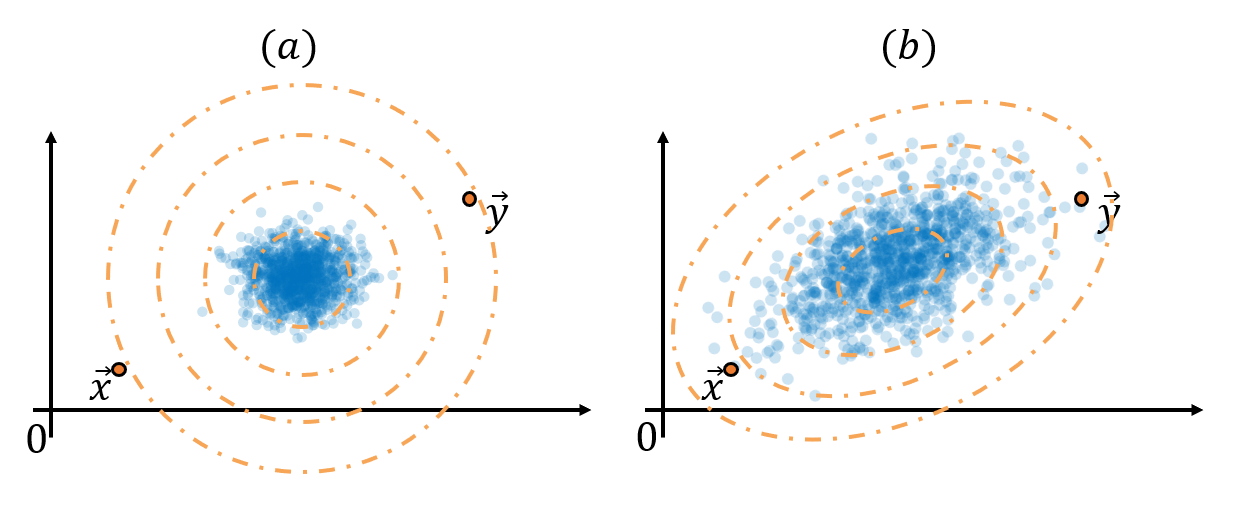
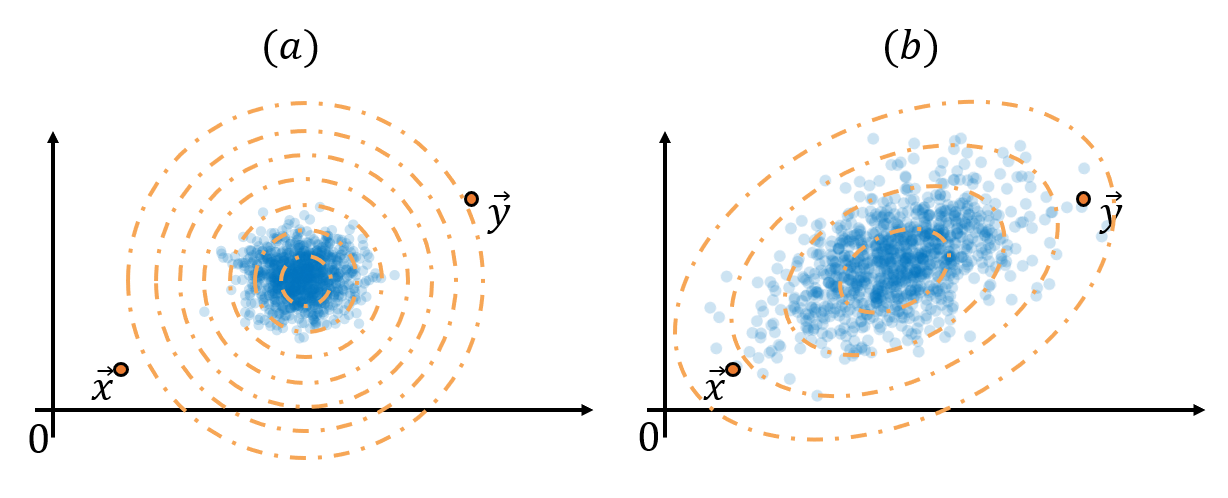
-

diff --git a/_posts/2022-09-28-Mahalanobis_distance.md b/_posts/2022-09-28-Mahalanobis_distance.md
@@ -53,7 +53,7 @@ $$d_E = \sqrt{(\vec x-\vec y)^T(\vec x-\vec y)}$$
   그림 3. 다른 데이터들의 맥락을 고려한 두 점 사이의 거리는 다르게 계산되어야 할 수도 있다.
 </p>
 
-위 그림을 보면 (a)는 파란색 데이터들이 보여주고 있는 기존의 분포에서 상당히 벗어나있는 점들이라는 것을 알 수 있다. 반면에 (b)는 파란색 데이터들이 보여주고 있는 기존의 분포에서 상대적으로 덜 벗어난 곳에 위치해있다. 말하자면 산의 모양을 고려한 등고선을 그려서 거리를 책정한다고나 할까. 분명 종이 위의 $\vec x$와 $\vec y$의 거리는 같지만 작은 동산을 가로지르는 경우와 큰 산을 가로지르는 거리는 아마 다를것이다.
+위 그림을 보면 (a)는 파란색 데이터들이 보여주고 있는 기존의 분포에서 상당히 벗어나있는 점들이라는 것을 알 수 있다. 반면에 (b)는 파란색 데이터들이 보여주고 있는 기존의 분포에서 상대적으로 덜 벗어난 곳에 위치해있다. 말하자면 산의 모양을 고려한 등고선을 그려서 거리를 책정한다고나 할까. 분명 종이 위의 $\vec x$와 $\vec y$의 거리는 같지만 작은 동산을 가로지르는 경우와 큰 산을 가로지르는 거리는 아마 다를것이다. 그림 4의 (a)에서 보면 $\vec x$와 $\vec y$ 사이를 통과하는 등고선의 개수가 그림 4의 (b) 보다 더 많다.
 
 <p align = "center">
   <img width = "600" src = "https://raw.githubusercontent.com/angeloyeo/angeloyeo.github.io/master/pics/2022-09-28-Mahalanobis_distance/pic4.png">
@@ -67,11 +67,23 @@ $$d_M = \sqrt{(\vec x-\vec y)^T\Sigma^{-1}(\vec x-\vec y)}$$
 
 $d_E$와 비교했을 때 $\Sigma$의 역행렬 $\Sigma^{-1}$이 가운데 곱해져 있다는 점에 주목하자. 
 
-# 공분산 행렬의 의미
+# 행렬의 기하학적 의미
 
-※ 이 글 꼭지는 [주성분분석(PCA) 편](https://angeloyeo.github.io/2019/07/27/PCA.html)에서 가져와 해당 포스팅에 맞게 수정한 것입니다.
+## 행렬은 선형 변환이다.
 
-공분산 행렬은 일종의 행렬로써, 데이터의 구조를 설명해주며, 특히 특징 쌍(feature pairs)들의 변동이 얼마나 닮았는가(다른 말로는 얼마만큼이나 함께 변하는가)를 행렬에 나타내고 있다.
+## 주어진 데이터를 보는 새로운 관점
+
+$$y=Ax$$
+
+$$y^Ty=x^TA^TAx$$
+
+반대로
+
+$$x=A^{-1}y$$
+
+$$x^Tx=y^T(A^{-1})^TA^{-1}y$$
+
+$$=y^T(AA^T)^{-1}y$$
 
 ## 공분산 행렬의 기하학적 의미
 
